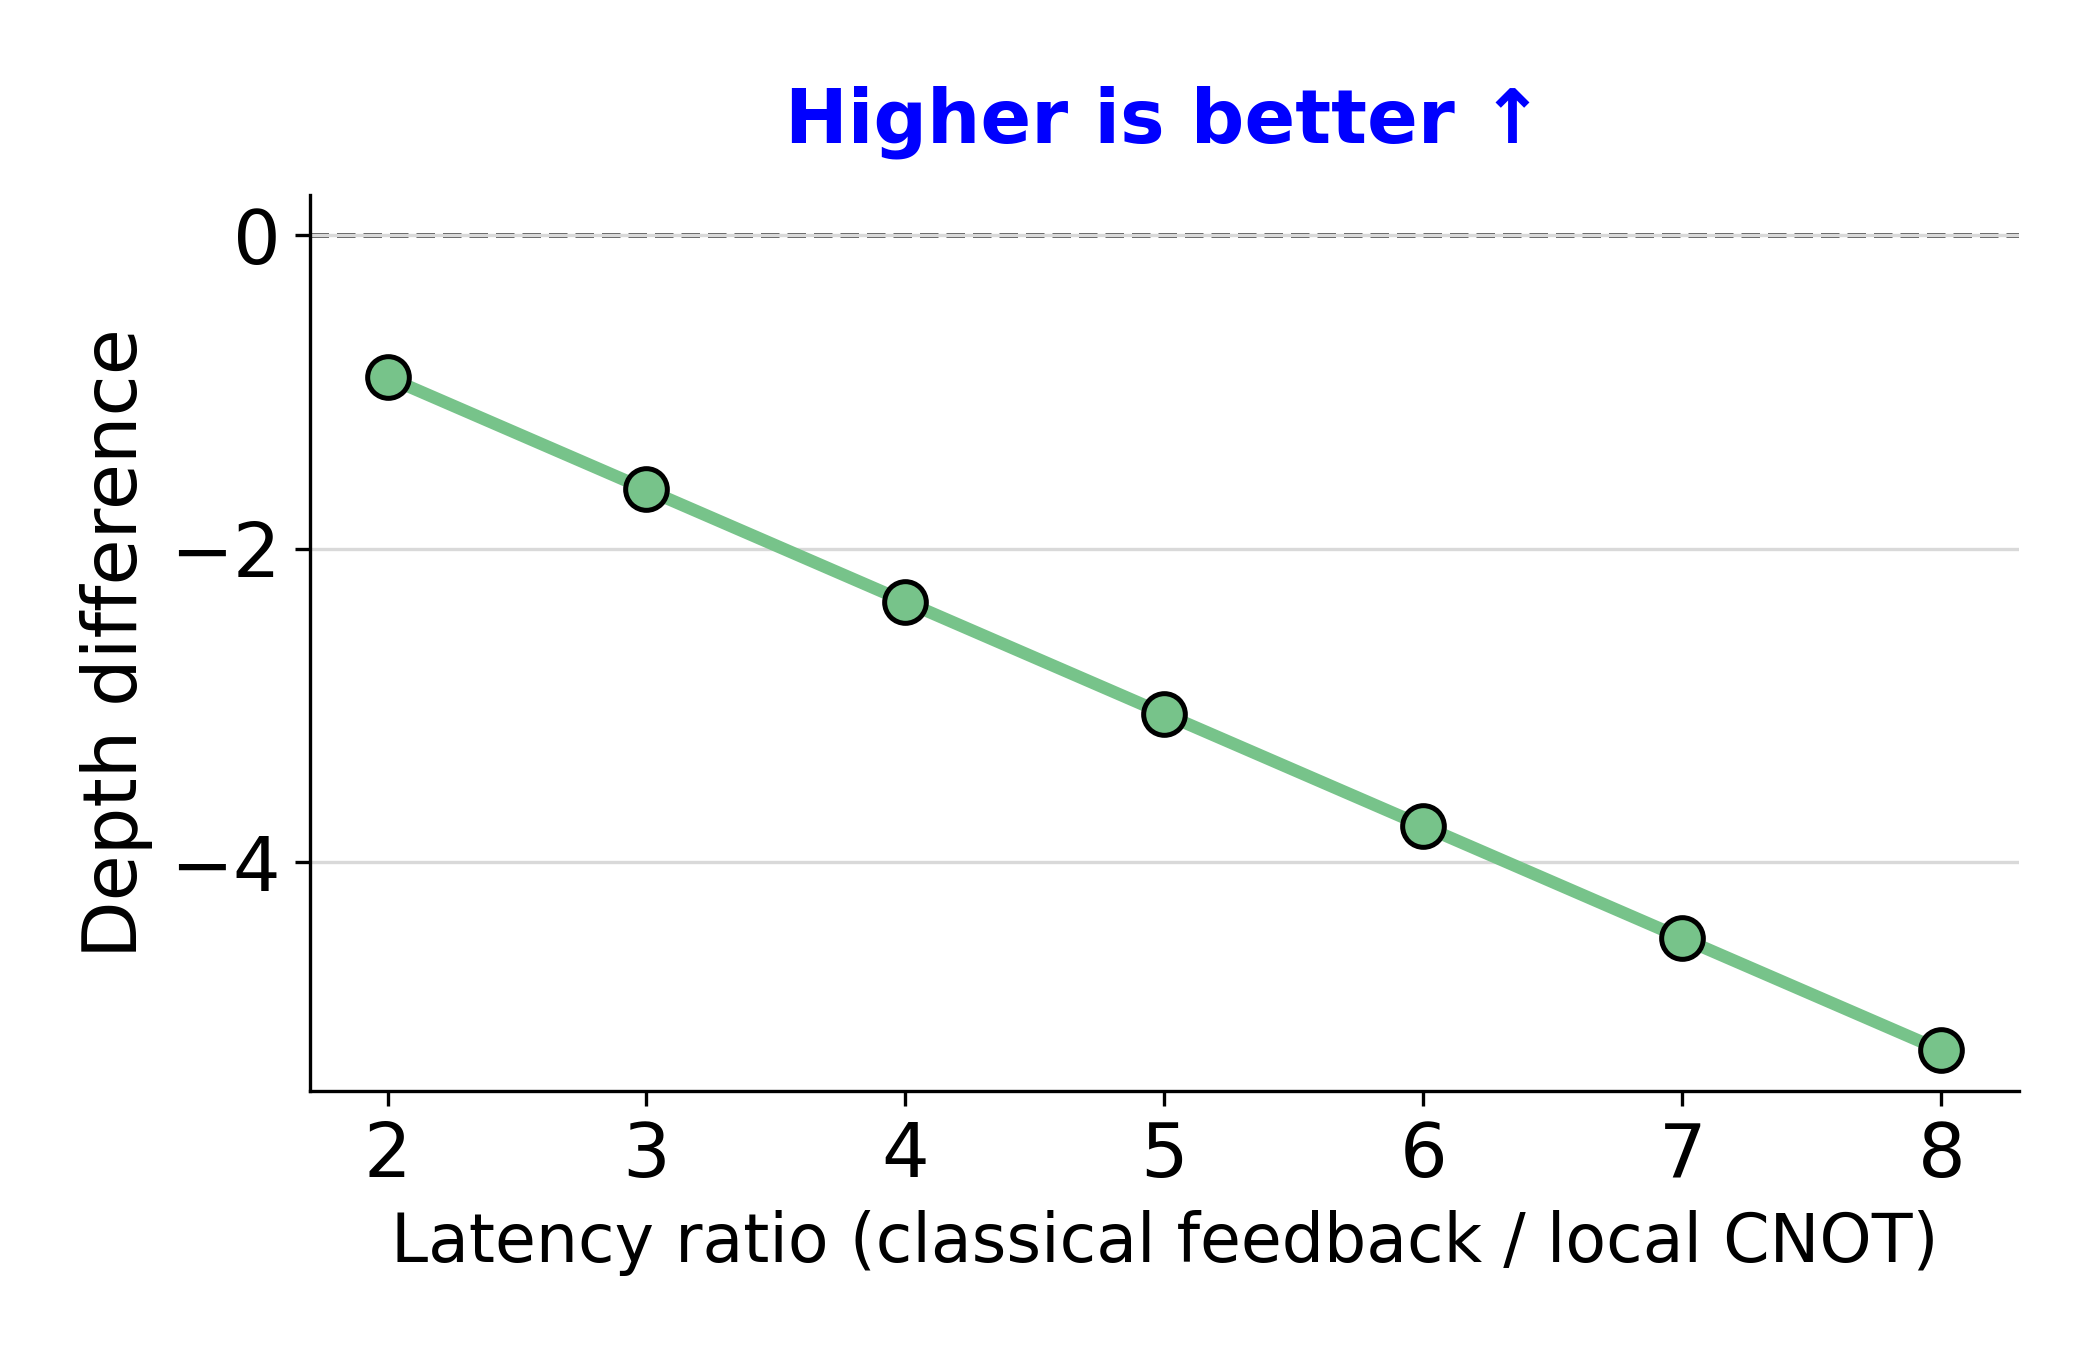
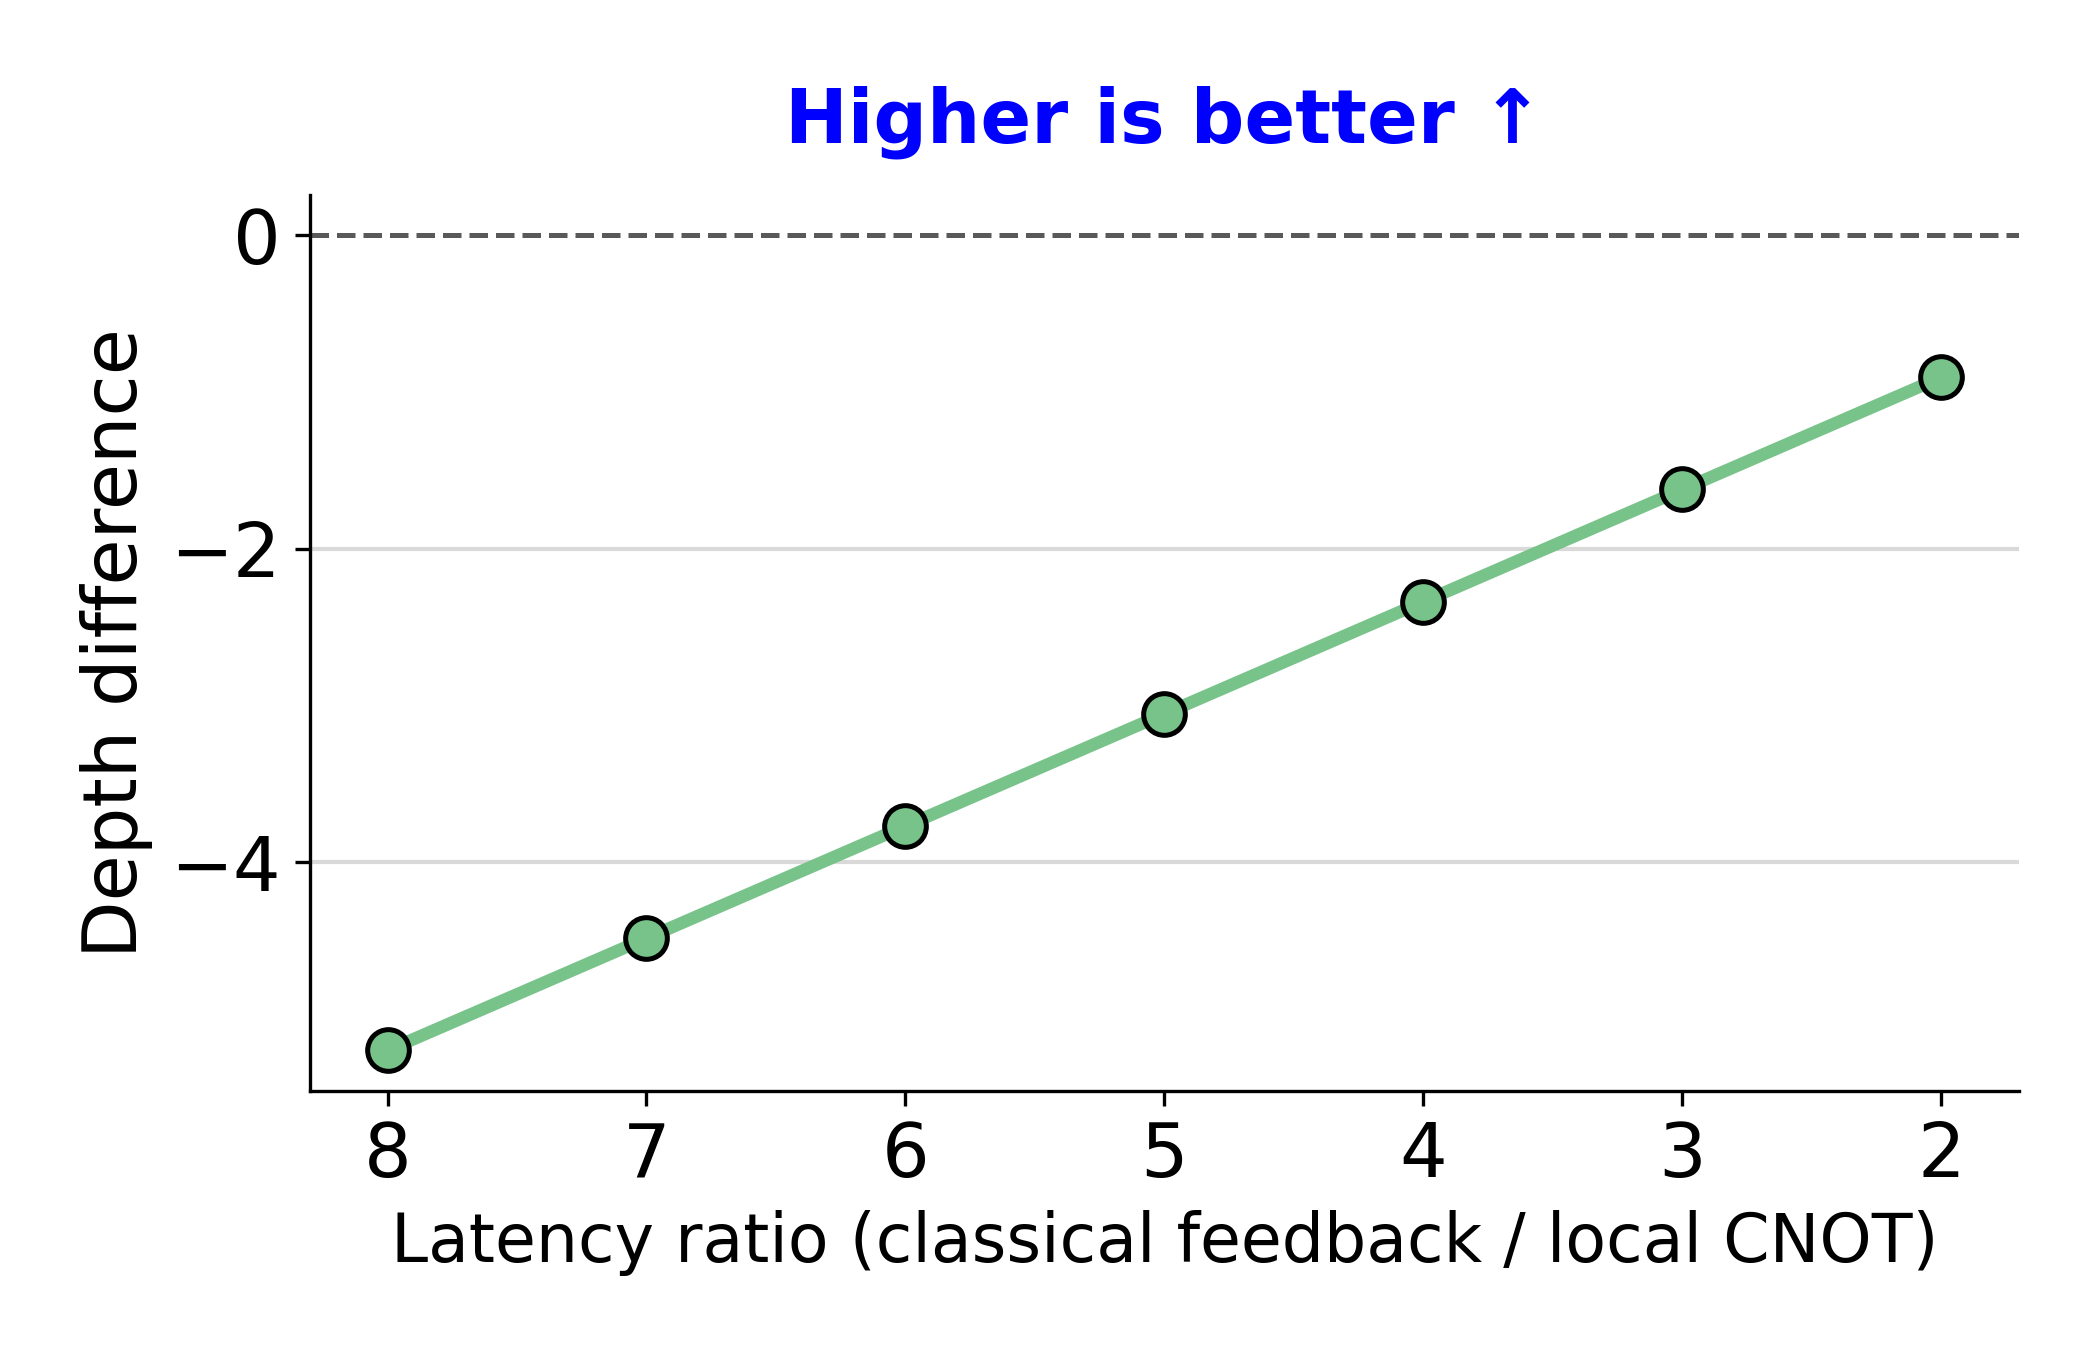
MECH slide plot: reverse x-axis so the line reads left to right

diff --git a/slides/plot_mech_classical_latency_avg.py b/slides/plot_mech_classical_latency_avg.py
@@ -34,14 +34,17 @@ mean = diff.mean(axis=0)
 plt.rcParams.update({"font.size": 18, "axes.spines.top": False, "axes.spines.right": False})
 fig, ax = plt.subplots(figsize=(7, 4.5))
 
-ax.axhline(0, color="0.35", linestyle="--", linewidth=1.2, zorder=1)
+ax.axhline(0, color="0.35", linestyle="--", linewidth=1.2, zorder=2)
 ax.plot(CLASSICAL_LATENCIES, mean, "-o", color=COLOR, linewidth=3, markersize=10,
         markeredgecolor="black", markeredgewidth=1.2, zorder=3)
 
 ax.set_xticks(CLASSICAL_LATENCIES)
+ax.invert_xaxis()  # read left to right as "faster feedback -> shallower circuits"
 ax.set_xlabel("Latency ratio (classical feedback / local CNOT)", fontsize=16)
 ax.set_ylabel("Depth difference")
-ax.grid(axis="y", color="0.85", zorder=0)
+ax.set_yticks([-4, -2, 0])
+for y in (-4, -2):  # manual gridlines; 0 already has the dashed break-even line
+    ax.axhline(y, color="0.85", linewidth=1, zorder=0)
 ax.text(0.5, 1.04, "Higher is better ↑", transform=ax.transAxes, ha="center", va="bottom",
         fontweight="bold", color="blue")
 
